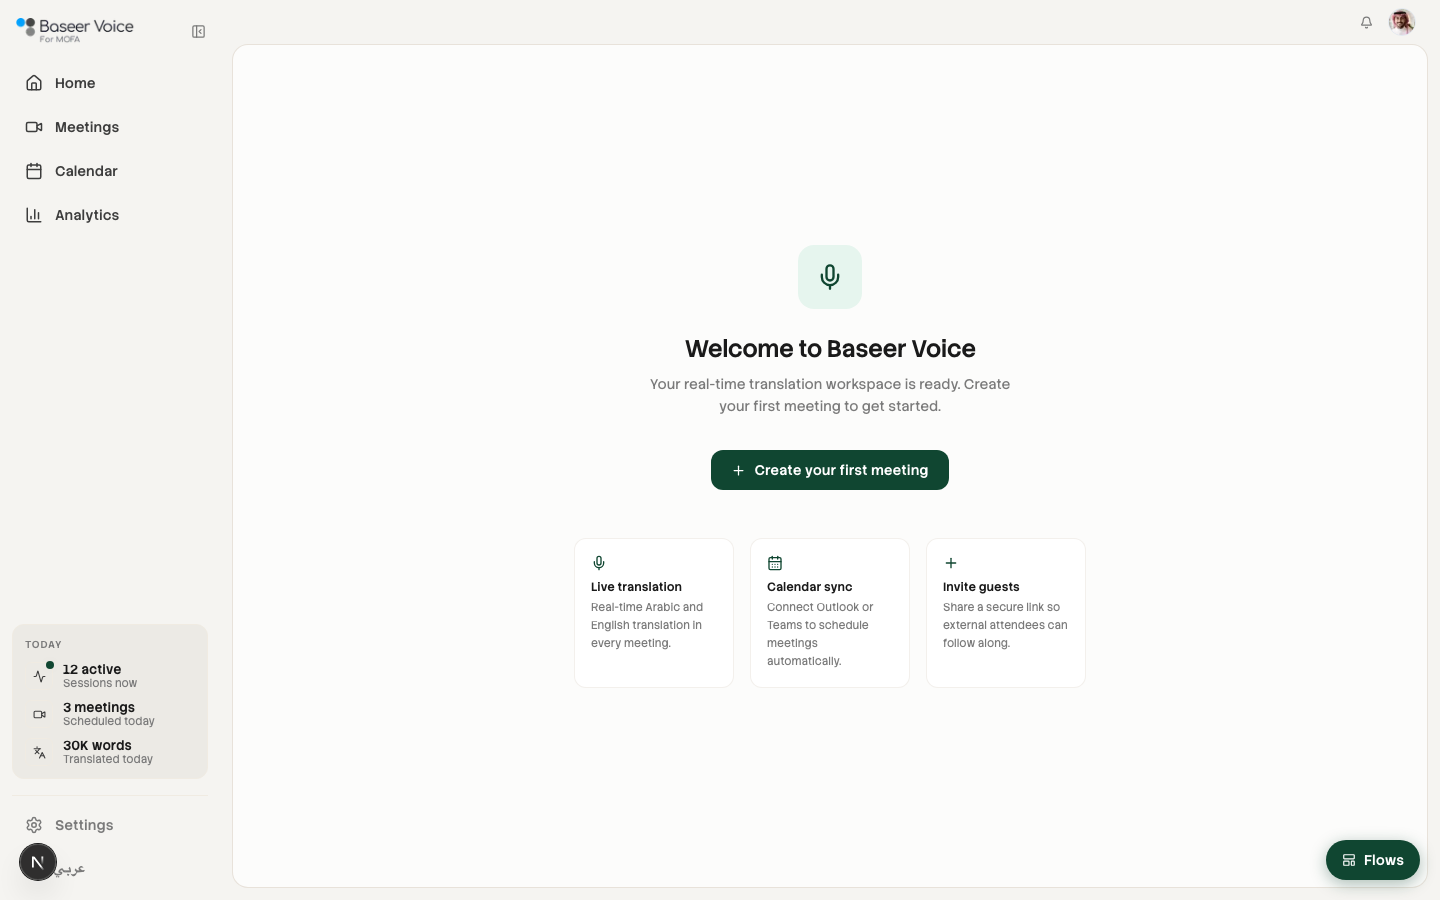
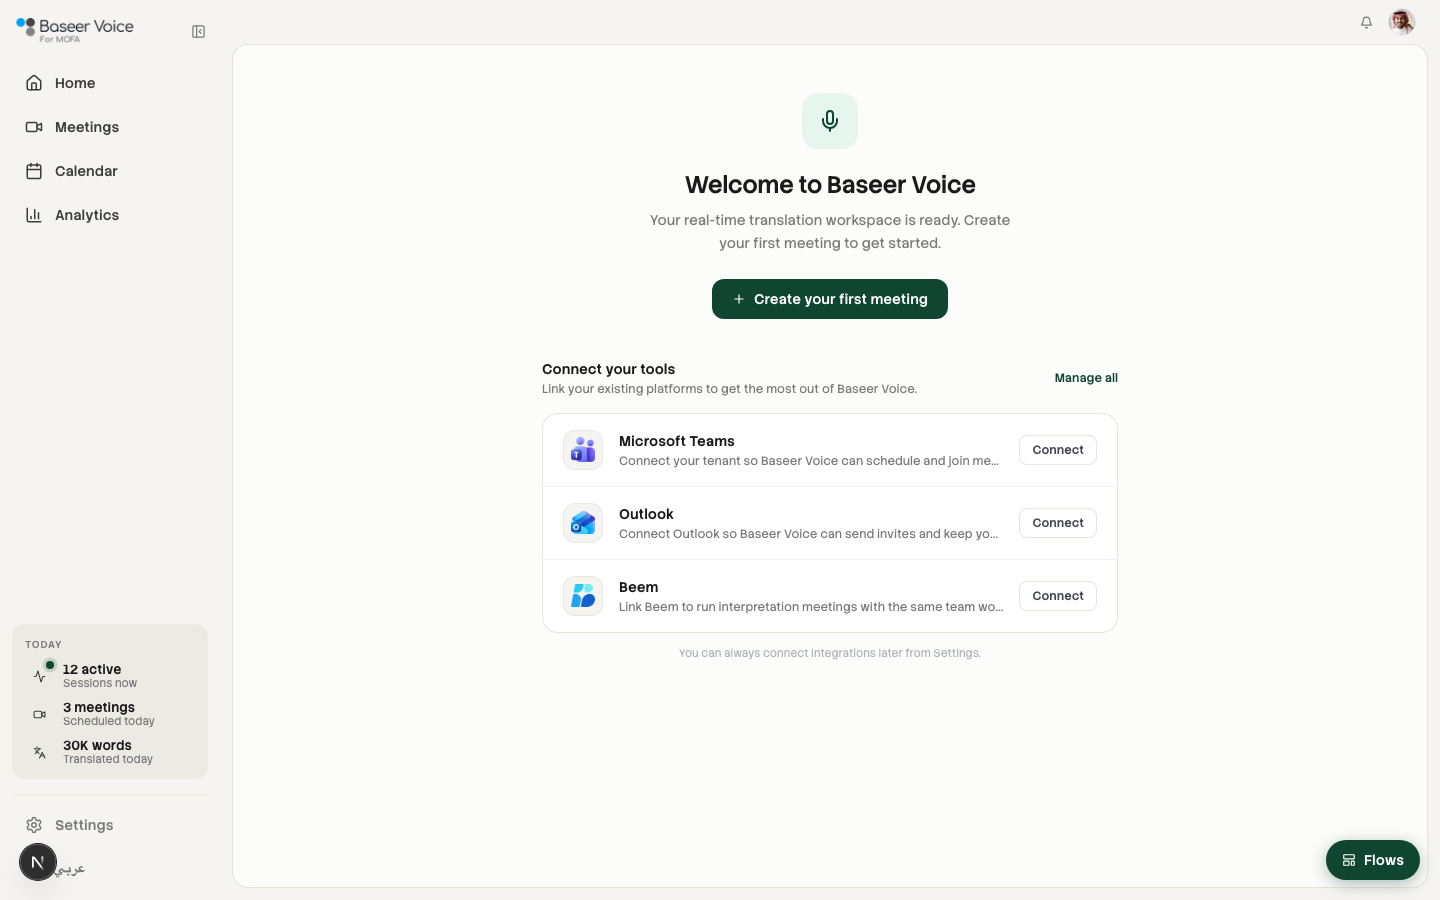
Update first-launch flow: show integration options instead of feature cards

diff --git a/src/app/flows/onboarding/first-launch/page.tsx b/src/app/flows/onboarding/first-launch/page.tsx
@@ -1,50 +1,129 @@
 import Link from "next/link";
+import Image from "next/image";
 import { AppShell } from "@/components/layout/AppShell";
-import { CalendarDays, Mic, Plus } from "lucide-react";
+import { Mic, Plus } from "lucide-react";
+
+const INTEGRATIONS = [
+  {
+    id: "teams",
+    name: "Microsoft Teams",
+    description: "Connect your tenant so Baseer Voice can schedule and join meetings in Teams.",
+    icon: "/teams.png",
+  },
+  {
+    id: "outlook",
+    name: "Outlook",
+    description: "Connect Outlook so Baseer Voice can send invites and keep your calendar in sync.",
+    icon: "/outlook.png",
+  },
+  {
+    id: "beem",
+    name: "Beem",
+    description: "Link Beem to run interpretation meetings with the same team workflow.",
+    icon: "/beam-logo.png",
+  },
+];
 
 export default function FirstLaunchFlow() {
   return (
     <AppShell>
-      <main className="flex h-full flex-col items-center justify-center px-8 py-16 text-center">
-        <div
-          className="mb-6 flex size-16 items-center justify-center rounded-2xl"
-          style={{ background: "var(--mofa-accent-light)" }}
-        >
-          <Mic size={28} style={{ color: "var(--mofa-accent)" }} aria-hidden />
+      <main className="h-full overflow-y-auto px-8 py-12">
+        {/* Hero */}
+        <div className="mb-10 flex flex-col items-center text-center">
+          <div
+            className="mb-5 flex size-14 items-center justify-center rounded-2xl"
+            style={{ background: "var(--mofa-accent-light)" }}
+          >
+            <Mic size={24} style={{ color: "var(--mofa-accent)" }} aria-hidden />
+          </div>
+          <h1 className="text-2xl font-semibold tracking-tight" style={{ color: "var(--mofa-text-primary)" }}>
+            Welcome to Baseer Voice
+          </h1>
+          <p className="mt-2 max-w-sm text-sm leading-relaxed" style={{ color: "var(--mofa-text-muted)" }}>
+            Your real-time translation workspace is ready. Create your first meeting to get started.
+          </p>
+          <Link
+            href="/meetings"
+            className="mt-6 flex items-center gap-2 rounded-xl px-5 py-2.5 text-sm font-semibold text-white"
+            style={{ background: "var(--mofa-accent)" }}
+          >
+            <Plus size={14} aria-hidden />
+            Create your first meeting
+          </Link>
         </div>
 
-        <h1 className="text-2xl font-semibold tracking-tight" style={{ color: "var(--mofa-text-primary)" }}>
-          Welcome to Baseer Voice
-        </h1>
-        <p className="mt-2 max-w-sm text-sm leading-relaxed" style={{ color: "var(--mofa-text-muted)" }}>
-          Your real-time translation workspace is ready. Create your first meeting to get started.
-        </p>
-
-        <Link
-          href="/meetings"
-          className="mt-8 flex items-center gap-2 rounded-xl px-5 py-2.5 text-sm font-semibold text-white"
-          style={{ background: "var(--mofa-accent)" }}
-        >
-          <Plus size={15} aria-hidden />
-          Create your first meeting
-        </Link>
-
-        <div className="mt-12 grid grid-cols-3 gap-4 max-w-lg w-full">
-          {[
-            { icon: Mic, title: "Live translation", body: "Real-time Arabic and English translation in every meeting." },
-            { icon: CalendarDays, title: "Calendar sync", body: "Connect Outlook or Teams to schedule meetings automatically." },
-            { icon: Plus, title: "Invite guests", body: "Share a secure link so external attendees can follow along." },
-          ].map(({ icon: Icon, title, body }) => (
-            <div
-              key={title}
-              className="rounded-xl p-4 text-left"
-              style={{ background: "white", border: "1px solid var(--mofa-border-subtle)" }}
-            >
-              <Icon size={16} className="mb-2" style={{ color: "var(--mofa-accent)" }} aria-hidden />
-              <p className="text-xs font-semibold" style={{ color: "var(--mofa-text-primary)" }}>{title}</p>
-              <p className="mt-1 text-[11px] leading-relaxed" style={{ color: "var(--mofa-text-muted)" }}>{body}</p>
+        {/* Integrations */}
+        <div className="mx-auto max-w-xl">
+          <div className="mb-4 flex items-center justify-between">
+            <div>
+              <p className="text-sm font-semibold" style={{ color: "var(--mofa-text-primary)" }}>
+                Connect your tools
+              </p>
+              <p className="mt-0.5 text-xs" style={{ color: "var(--mofa-text-muted)" }}>
+                Link your existing platforms to get the most out of Baseer Voice.
+              </p>
             </div>
-          ))}
+            <Link
+              href="/settings"
+              className="text-xs font-medium"
+              style={{ color: "var(--mofa-accent)" }}
+            >
+              Manage all
+            </Link>
+          </div>
+
+          <div
+            className="overflow-hidden rounded-2xl"
+            style={{ border: "1px solid var(--mofa-border-default)", background: "white" }}
+          >
+            {INTEGRATIONS.map((integration, idx) => (
+              <div
+                key={integration.id}
+                className="flex items-center gap-4 px-5 py-4"
+                style={{
+                  borderTop: idx > 0 ? "1px solid var(--mofa-border-subtle)" : undefined,
+                }}
+              >
+                <div
+                  className="flex size-10 shrink-0 items-center justify-center rounded-xl"
+                  style={{ background: "var(--mofa-sidebar-bg)", border: "1px solid var(--mofa-border-subtle)" }}
+                >
+                  <Image
+                    src={integration.icon}
+                    alt={integration.name}
+                    width={24}
+                    height={24}
+                    className="object-contain"
+                  />
+                </div>
+
+                <div className="min-w-0 flex-1">
+                  <p className="text-sm font-semibold" style={{ color: "var(--mofa-text-primary)" }}>
+                    {integration.name}
+                  </p>
+                  <p className="mt-0.5 truncate text-xs" style={{ color: "var(--mofa-text-muted)" }}>
+                    {integration.description}
+                  </p>
+                </div>
+
+                <button
+                  type="button"
+                  className="shrink-0 rounded-lg border px-3 py-1.5 text-xs font-semibold transition-colors"
+                  style={{
+                    borderColor: "var(--mofa-border-default)",
+                    color: "var(--mofa-text-body)",
+                    background: "white",
+                  }}
+                >
+                  Connect
+                </button>
+              </div>
+            ))}
+          </div>
+
+          <p className="mt-3 text-center text-[11px]" style={{ color: "var(--mofa-text-faint)" }}>
+            You can always connect integrations later from Settings.
+          </p>
         </div>
       </main>
     </AppShell>